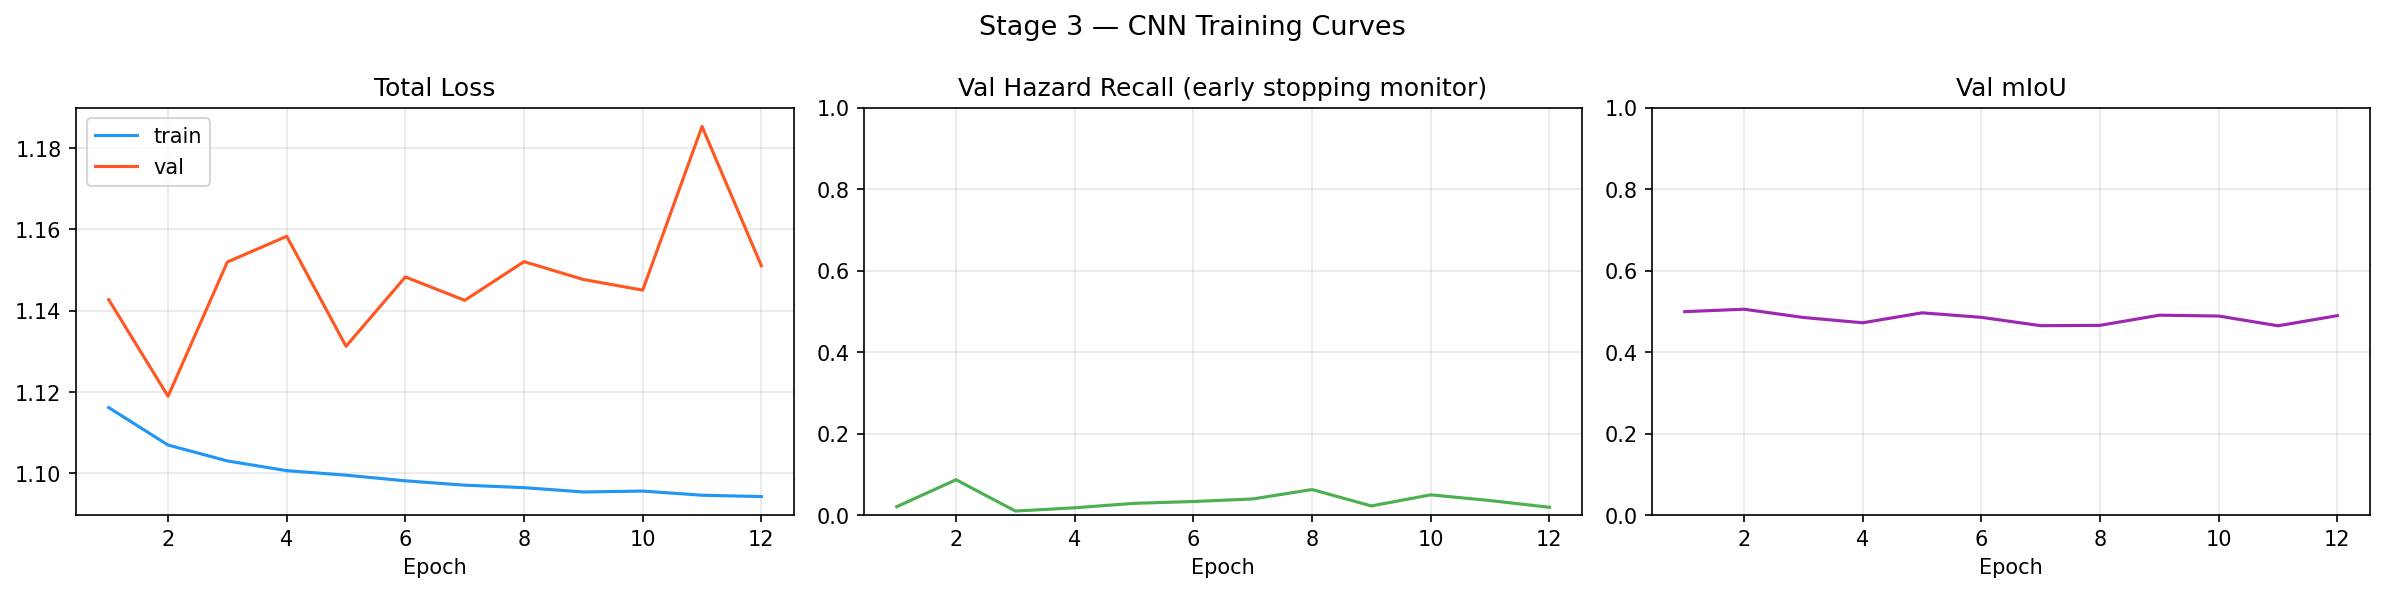
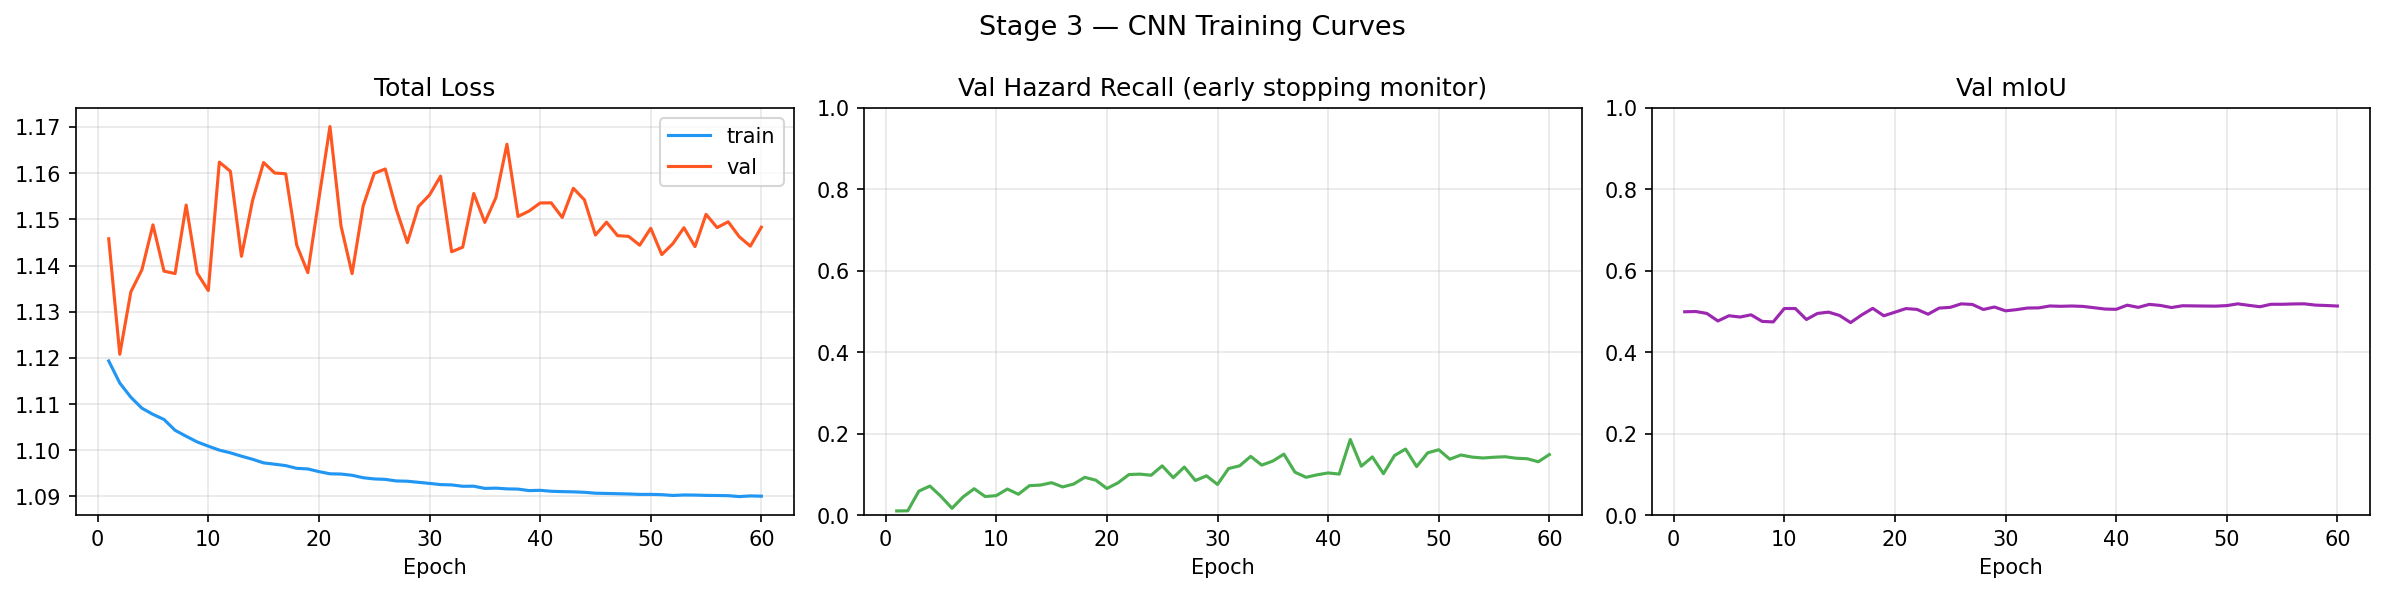
stage 3 fixes + not sure.

diff --git a/scripts/train_cnn.py b/scripts/train_cnn.py
@@ -244,9 +244,16 @@ def train_cnn(
     )
 
     # --- Optimizer & Scheduler ---
-    optimizer = torch.optim.AdamW(model.parameters(), lr=LR, weight_decay=WEIGHT_DECAY)
-    scheduler = torch.optim.lr_scheduler.CosineAnnealingLR(
-        optimizer, T_max=MAX_EPOCHS, eta_min=LR * 0.01
+    optimizer = torch.optim.AdamW([
+    {"params": model.features.parameters(), "lr": 1e-5},
+    {"params": model.decoder.parameters(),  "lr": 1e-3},
+], weight_decay=WEIGHT_DECAY)
+    cosine_scheduler = torch.optim.lr_scheduler.CosineAnnealingLR(
+        optimizer, T_max=MAX_EPOCHS - 5, eta_min=1e-6
+    )
+    warmup = torch.optim.lr_scheduler.LinearLR(optimizer, start_factor=0.1, total_iters=5)
+    scheduler = torch.optim.lr_scheduler.SequentialLR(
+        optimizer, [warmup, cosine_scheduler], milestones=[5]
     )
 
     # --- AMP scaler ---